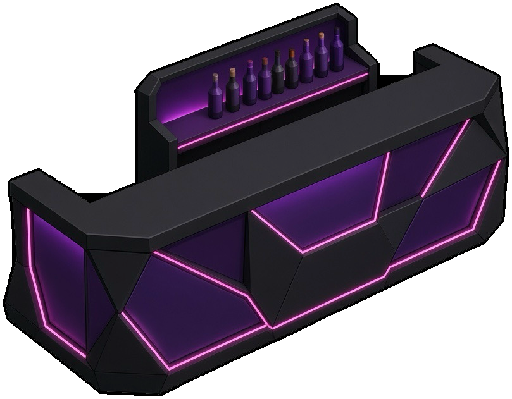
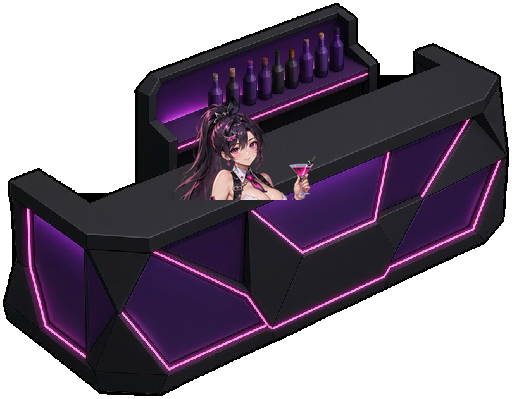
feat: original Luna idle only + baked bartender NPC on SE/SW bars
Drop luna_idle_b load/anim and random idle switching; keep sheet on disk unused.
Composite approved center-pose bartender into bar_se/bar_sw behind counter; NE/NW unchanged.

Changed region(s): [[0.3438, 0.2406, 0.625, 0.5113]]

diff --git a/src/game/scenes/BootScene.ts b/src/game/scenes/BootScene.ts
@@ -99,10 +99,6 @@ export class BootScene extends Phaser.Scene {
       frameWidth: 146,
       frameHeight: 784,
     });
-    this.load.spritesheet('luna_idle_b', 'assets/characters/luna_idle_b_sheet.png', {
-      frameWidth: 146,
-      frameHeight: 784,
-    });
     this.load.image('bartender', 'assets/characters/bartender.png'); // legacy fallback
     this.load.image('patron_a', 'assets/characters/patron_a.png');
     this.load.image('patron_b', 'assets/characters/patron_b.png');
@@ -130,21 +126,13 @@ export class BootScene extends Phaser.Scene {
   }
 
   private ensureCharacterAnims(): void {
-    // Luna idle variants: play once then Character re-picks at random on complete.
+    // Luna idle: loop original sheet only (no alternate B).
     if (!this.anims.exists('luna-idle')) {
       this.anims.create({
         key: 'luna-idle',
         frames: this.anims.generateFrameNumbers('luna_idle', { start: 0, end: 7 }),
         frameRate: 9,
-        repeat: 0,
-      });
-    }
-    if (!this.anims.exists('luna-idle-b')) {
-      this.anims.create({
-        key: 'luna-idle-b',
-        frames: this.anims.generateFrameNumbers('luna_idle_b', { start: 0, end: 7 }),
-        frameRate: 9,
-        repeat: 0,
+        repeat: -1,
       });
     }
     if (!this.anims.exists('nova-idle')) {

diff --git a/src/game/entities/Bartender.ts b/src/game/entities/Bartender.ts
@@ -53,7 +53,6 @@ export class Bartender extends Character {
       const displayW = (LUNA_IDLE_FRAME_W / LUNA_IDLE_FRAME_H) * displayH;
       this.setupSheetIdle({
         animKey: 'luna-idle',
-        altAnimKeys: ['luna-idle-b'],
         originY: LUNA_FEET_ORIGIN_Y,
         displayWidth: displayW,
         displayHeight: displayH,

diff --git a/scripts/composite_bartender_into_bars.py b/scripts/composite_bartender_into_bars.py
@@ -1,0 +1,191 @@
+#!/usr/bin/env python3
+from __future__ import annotations
+from pathlib import Path
+import numpy as np
+from PIL import Image
+from scipy import ndimage
+
+SRC = Path("/workspace/cutouts/npc_sheet.png")
+FURN = Path("/workspace/night-club-sim/public/assets/furniture")
+BACKUP = Path("/workspace/cutouts/bar_backup")
+OUT_DIR = Path("/workspace/cutouts")
+PREVIEW = Path("/workspace/night-club-sim/tmp_bar_preview")
+
+def key_gray(rgb, tol=42):
+    bg = np.median(rgb[5:30, 5:30], axis=(0, 1)).astype(np.float32)
+    diff = np.abs(rgb.astype(np.float32) - bg).sum(axis=2)
+    a = np.clip((diff - tol + 12) / 24.0, 0.0, 1.0)
+    mx = rgb.max(axis=2).astype(np.int16)
+    mn = rgb.min(axis=2).astype(np.int16)
+    chroma = mx - mn
+    flat_gray = (chroma < 14) & (np.abs(mx.astype(np.float32) - float(bg.max())) < 28)
+    a = a.copy()
+    a[flat_gray] = 0.0
+    return (a * 255).astype(np.uint8)
+
+def extract_center_pose(src):
+    rgb = np.array(Image.open(src).convert("RGB"))
+    alpha = key_gray(rgb)
+    mask = alpha > 20
+    lab, n = ndimage.label(mask)
+    bbs = []
+    for i in range(1, n + 1):
+        ys, xs = np.where(lab == i)
+        if len(xs) < 3000:
+            continue
+        bbs.append((int(xs.min()), int(ys.min()), int(xs.max()), int(ys.max()), i, int(len(xs))))
+    bbs.sort(key=lambda b: b[0])
+    print("pose blobs:", bbs)
+    x0, y0, x1, y1, li, _ = bbs[1]
+    pad = 8
+    x0 = max(0, x0 - pad); y0 = max(0, y0 - pad)
+    x1 = min(rgb.shape[1] - 1, x1 + pad); y1 = min(rgb.shape[0] - 1, y1 + pad)
+    keep = ndimage.binary_dilation(lab == li, iterations=2)
+    crop_rgb = rgb[y0:y1+1, x0:x1+1]
+    crop_a = alpha[y0:y1+1, x0:x1+1].copy()
+    crop_a[~keep[y0:y1+1, x0:x1+1]] = 0
+    out = np.dstack([crop_rgb, crop_a])
+    ys, xs = np.where(crop_a > 10)
+    fig = Image.fromarray(out[ys.min():ys.max()+1, xs.min():xs.max()+1], "RGBA")
+    print("center figure size", fig.size)
+    return fig
+
+def remove_source_bar_and_crop_bust(fig: Image.Image) -> Image.Image:
+    """Drop the source mini-bar (dark + pink neon ledge) and keep head/shoulders/chest + glass."""
+    a = np.array(fig.convert("RGBA"))
+    h, w = a.shape[:2]
+    r, g, b, al = a[:,:,0], a[:,:,1], a[:,:,2], a[:,:,3]
+    mx = np.maximum(np.maximum(r, g), b).astype(np.int16)
+    mn = np.minimum(np.minimum(r, g), b).astype(np.int16)
+    chroma = mx - mn
+
+    # Pink neon strip on source bar — find its y
+    pink = (r > 140) & (b > 100) & (g < r * 0.75) & (chroma > 40) & (al > 40)
+    pink_rows = np.where(pink.any(axis=1))[0]
+    print("pink row count", len(pink_rows), "range", (int(pink_rows.min()), int(pink_rows.max())) if len(pink_rows) else None)
+
+    # Dark horizontal bar mass in lower half
+    dark = (mx < 55) & (al > 40) & (chroma < 35)
+    # Prefer pink neon as cut guide; else dark band in lower 55%
+    if len(pink_rows) > 20:
+        # neon is on front of counter — cut a bit above it so hand-on-bar may remain partially
+        cut_y = int(np.percentile(pink_rows, 15)) - 4
+    else:
+        lower = dark.copy(); lower[: int(h * 0.35), :] = False
+        row_dark = lower.sum(axis=1)
+        # first strong dark row from top in lower region
+        cand = np.where(row_dark > w * 0.12)[0]
+        cut_y = int(cand.min()) - 2 if len(cand) else int(h * 0.55)
+
+    cut_y = max(int(h * 0.35), min(cut_y, int(h * 0.72)))
+    print("bust cut_y", cut_y, "of", h)
+
+    # Soft fade into cut
+    fade = 8
+    out = a.copy()
+    for y in range(h):
+        if y < cut_y - fade:
+            continue
+        if y >= cut_y:
+            out[y, :, 3] = 0
+        else:
+            t = (y - (cut_y - fade) + 1) / (fade + 1)
+            mul = max(0.0, 1.0 - t)
+            out[y, :, 3] = (out[y, :, 3].astype(np.float32) * mul).astype(np.uint8)
+
+    # Also clear remaining dark bar leftovers above cut (props on counter OK if colorful)
+    # Kill large flat-dark chunks near bottom of remaining area
+    zone = out.copy()
+    # Remove silver shakers/bottles sitting on the bar near bottom edges — optional keep glass in hand
+    # Heuristic: opaque dark/silver pixels in bottom 18% of remaining bust → clear if not near center torso
+    ys, xs = np.where(out[:, :, 3] > 8)
+    if len(xs) == 0:
+        return Image.fromarray(out, "RGBA")
+    y0, y1 = int(ys.min()), int(ys.max())
+    x0, x1 = int(xs.min()), int(xs.max())
+    cropped = out[y0:y1+1, x0:x1+1]
+    return Image.fromarray(cropped, "RGBA")
+
+def paste_rgba(base, overlay, x, y):
+    ov = np.array(overlay.convert("RGBA"))
+    h, w = ov.shape[:2]
+    H, W = base.shape[:2]
+    x0, y0 = max(0, x), max(0, y)
+    x1, y1 = min(W, x + w), min(H, y + h)
+    sx0, sy0 = x0 - x, y0 - y
+    sx1, sy1 = sx0 + (x1 - x0), sy0 + (y1 - y0)
+    if x1 <= x0 or y1 <= y0:
+        return base
+    dst = base[y0:y1, x0:x1].astype(np.float32)
+    src = ov[sy0:sy1, sx0:sx1].astype(np.float32)
+    sa = src[:, :, 3:4] / 255.0
+    da = dst[:, :, 3:4] / 255.0
+    out_a = sa + da * (1 - sa)
+    out_rgb = src[:, :, :3] * sa + dst[:, :, :3] * da * (1 - sa)
+    out_rgb = np.where(out_a > 1e-6, out_rgb / np.maximum(out_a, 1e-6), 0)
+    out = np.dstack([out_rgb, out_a * 255]).astype(np.uint8)
+    base = base.copy()
+    base[y0:y1, x0:x1] = out
+    return base
+
+def split_bar_front(bar, keep_bottom_frac=0.48):
+    ys, xs = np.where(bar[:, :, 3] > 10)
+    minY, maxY = int(ys.min()), int(ys.max())
+    aabb_h = maxY - minY + 1
+    keep_h = max(1, int(aabb_h * keep_bottom_frac))
+    cut_y = maxY - keep_h + 1
+    front = bar.copy()
+    front[:cut_y, :, 3] = 0
+    return front, cut_y
+
+def checker_preview(im, path, max_side=520):
+    prev = im.copy(); prev.thumbnail((max_side, max_side))
+    pa = np.array(prev.convert("RGBA"))
+    h, w = pa.shape[:2]
+    yy, xx = np.indices((h, w))
+    chk = np.where(((xx // 12) + (yy // 12)) % 2 == 0, 200, 90).astype(np.float32)
+    af = pa[:, :, 3].astype(np.float32) / 255.0
+    rgb = pa[:, :, :3].astype(np.float32)
+    comp = (rgb * af[..., None] + np.dstack([chk, chk, chk]) * (1 - af[..., None])).astype(np.uint8)
+    Image.fromarray(comp, "RGB").save(path, quality=92)
+
+def composite_facing(facing, body, scale, cx_frac, top_frac, front_frac):
+    # Always start from clean backup
+    bar = np.array(Image.open(BACKUP / f"bar_{facing}.png").convert("RGBA"))
+    H, W = bar.shape[:2]
+    target_h = int(H * scale)
+    bw = max(1, int(round(body.width * (target_h / body.height))))
+    scaled = body.resize((bw, target_h), Image.Resampling.LANCZOS)
+    # Align bottom of bust roughly to counter top (front cut line)
+    front, cut_y = split_bar_front(bar, keep_bottom_frac=front_frac)
+    # Place so bottom of sprite sits near cut_y (counter top), slightly above so chest clears
+    x = int(W * cx_frac) - scaled.width // 2
+    y = int(cut_y - scaled.height * top_frac)
+    composed = paste_rgba(bar, scaled, x, y)
+    fa = front[:, :, 3] > 0
+    composed[fa] = bar[fa]
+    path = FURN / f"bar_{facing}.png"
+    Image.fromarray(composed, "RGBA").save(path, "PNG")
+    checker_preview(Image.fromarray(composed, "RGBA"), PREVIEW / f"bar_{facing}_npc_check.jpg")
+    print(f"{facing}: h={target_h} pos=({x},{y}) cut_y={cut_y} front={front_frac}")
+
+def main():
+    PREVIEW.mkdir(parents=True, exist_ok=True)
+    fig = extract_center_pose(SRC)
+    fig.save(OUT_DIR / "npc_center_full.png")
+    bust = remove_source_bar_and_crop_bust(fig)
+    bust.save(OUT_DIR / "npc_center_bust.png")
+    checker_preview(bust, PREVIEW / "npc_center_bust_check.jpg")
+    print("bust", bust.size)
+
+    # Smaller peek: ~32% of bar height; front covers lower half of bust
+    composite_facing("se", bust, scale=0.34, cx_frac=0.47, top_frac=0.78, front_frac=0.50)
+    composite_facing("sw", bust, scale=0.34, cx_frac=0.53, top_frac=0.78, front_frac=0.50)
+
+    for facing in ("ne", "nw"):
+        Image.open(BACKUP / f"bar_{facing}.png").save(FURN / f"bar_{facing}.png")
+        print(facing, "no NPC")
+    print("done")
+
+if __name__ == "__main__":
+    main()
